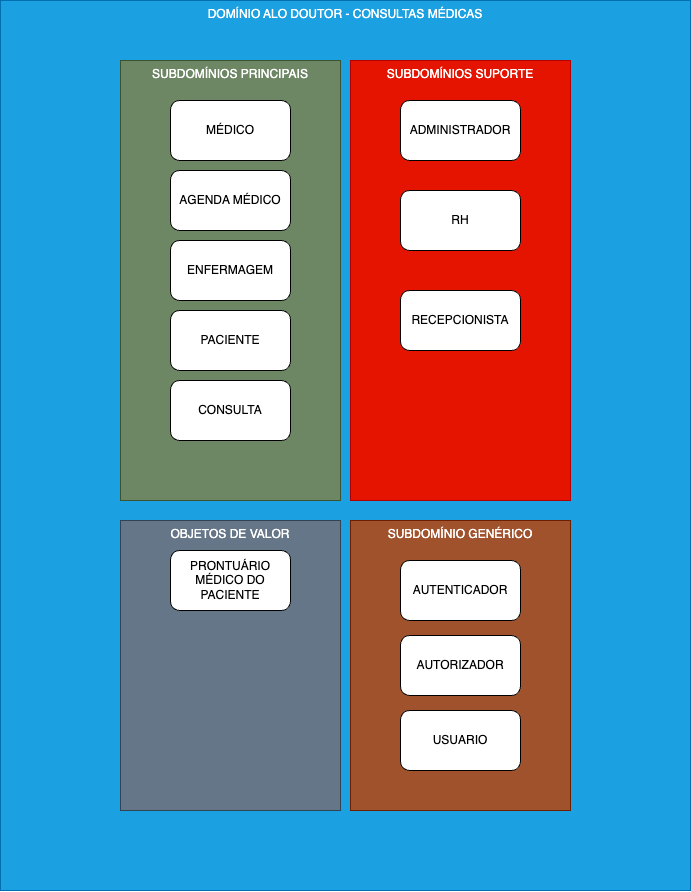
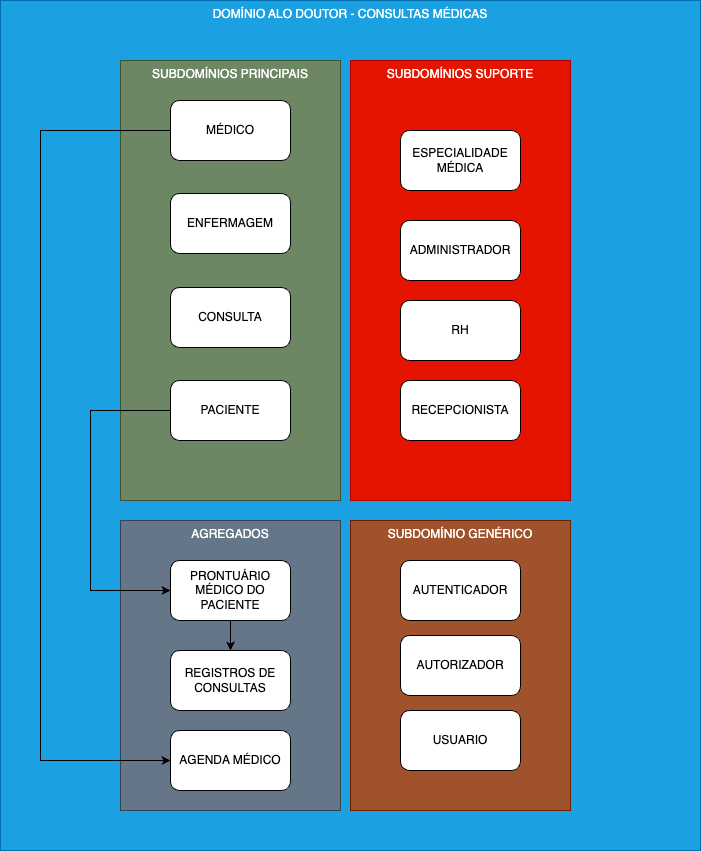
Atualizacao de dominios e criacao de endpoints de login para testes

Changed region(s): [[0.0, 0.0611, 1.0, 1.0], [0.3039, 0.0, 0.699, 0.0306]]

diff --git a/AloDoutor/Program.cs b/AloDoutor/Program.cs
@@ -1,11 +1,59 @@
+using Keycloak.AuthServices.Authentication;
+using Keycloak.AuthServices.Authorization;
+using Microsoft.OpenApi.Models;
+
 var builder = WebApplication.CreateBuilder(args);
 
 // Add services to the container.
 
+var authenticationOptions = builder
+    .Configuration
+    .GetSection(KeycloakAuthenticationOptions.Section)
+    .Get<KeycloakAuthenticationOptions>();
+
+builder.Services.AddKeycloakAuthentication(authenticationOptions);
+
+var authorizationOptions = builder
+    .Configuration
+    .GetSection(KeycloakProtectionClientOptions.Section)
+    .Get<KeycloakProtectionClientOptions>();
+
+builder.Services.AddKeycloakAuthorization(authorizationOptions);
+
+
 builder.Services.AddControllers();
 // Learn more about configuring Swagger/OpenAPI at https://aka.ms/aspnetcore/swashbuckle
 builder.Services.AddEndpointsApiExplorer();
-builder.Services.AddSwaggerGen();
+builder.Services.AddSwaggerGen(c =>
+{
+    c.SwaggerDoc("v1", new OpenApiInfo { Title = "Alo Doutor", Version = "v1" });
+
+    c.AddSecurityDefinition("Bearer", new OpenApiSecurityScheme()
+    {
+        Name = "Authorization",
+        Type = SecuritySchemeType.ApiKey,
+        Scheme = "Bearer",
+        BearerFormat = "JWT",
+        In = ParameterLocation.Header,
+        Description = "JWT Authorization header - utilizado com Bearer Authentication.\\r\\n\\r\\n" +
+                      "Digite 'Bearer'[espaço] e então seu token no campo abaixo.\\r\\n\\r\\n" +
+                      "Exemplo (sem aspas): \"Bearer 12345abcdef\"",
+    });
+    c.AddSecurityRequirement(new OpenApiSecurityRequirement
+    {
+        {
+            new OpenApiSecurityScheme
+            {
+                Reference = new OpenApiReference
+                {
+                    Type = ReferenceType.SecurityScheme,
+                    Id = "Bearer"
+                }
+            },
+            Array.Empty<string>()
+        }
+    });
+});
 
 var app = builder.Build();
 
@@ -18,6 +66,7 @@ if (app.Environment.IsDevelopment())
 
 app.UseHttpsRedirection();
 
+app.UseAuthentication();
 app.UseAuthorization();
 
 app.MapControllers();

diff --git a/AloDoutor/Controllers/MedicoController.cs b/AloDoutor/Controllers/MedicoController.cs
@@ -1,0 +1,23 @@
+using Microsoft.AspNetCore.Authorization;
+using Microsoft.AspNetCore.Mvc;
+
+namespace AloDoutor.Controllers;
+
+[ApiController]
+[Route("medico")]
+public class MedicoController : Controller
+{
+    [HttpGet]
+    [Authorize]
+    public IActionResult ListarMedicos()
+    {
+        return Ok("Listando Médicos");
+    }
+    
+    [HttpPost]
+    public IActionResult CadastrarMedico()
+    {
+        return Ok("Cadastrando Médico");
+    }
+    
+}

diff --git a/AloDoutor/Controllers/AutenticacaoController.cs b/AloDoutor/Controllers/AutenticacaoController.cs
@@ -1,0 +1,14 @@
+using Microsoft.AspNetCore.Mvc;
+
+namespace AloDoutor.Controllers;
+
+[ApiController]
+[Route("autenticacao")]
+public class AutenticacaoController : Controller
+{
+    [HttpPost]
+    public IActionResult Login()
+    {
+        return Ok("Logando");
+    }
+}

diff --git a/AloDoutor/Domain/Generic/Autenticador.cs b/AloDoutor/Domain/Generic/Autenticador.cs
@@ -1,0 +1,7 @@
+namespace AloDoutor.Domain.Generic;
+
+public interface Autenticador
+{
+    public string Logar(string login, string senha);
+    
+}

diff --git a/documentacao/keycloak.md b/documentacao/keycloak.md
@@ -1,0 +1,12 @@
+## Configurando a Autenticação e Autorização
+
+### Keycloak
+
+Para os processos de autenticação e autorização, optamos por utilizar o *[Keycloak](https://www.keycloak.org/)*.
+
+O Keycloak é um software open source, mantido pela Red Hat, feito para trabalhar em conjunto com nossas aplicações para prover as funcionalidades de autenticação e de autorização.
+Ele oferece funcionalidades como criação de usuário, login, “esqueci minha senha” e login com plataformas externas como redes sociais, integração dos usuários com Active Directory, criação de permissões que o sistema vai usar, e muitas outras funcionalidades avançadas.
+
+
+Ele é um projeto open source mantido pela Red Hat que possibilita o *Single Sign On* das aplicações utilizando diversos provedores de autenticação como Active Directory, LDAP, Google, Facebook, entre outros.
+

diff --git a/README.md b/README.md
@@ -1,1 +1,9 @@
 # AloDoutor
+
+## Sobre
+
+
+## Documentação
+
+- [Levantamento de Requisitos](./documentacao/requisitos.md)
+- [Configurando a Autenticação e Autorização](./documentacao/keycloak.md)

diff --git a/documentacao/requisitos.md b/documentacao/requisitos.md
@@ -107,3 +107,6 @@ O time de desenvolvimento conversou com o responsável pela clínica, uma pessoa
         - Administração
             - Tem permissão total no sistema
 
+
+
+*[Voltar](../README.md)*
